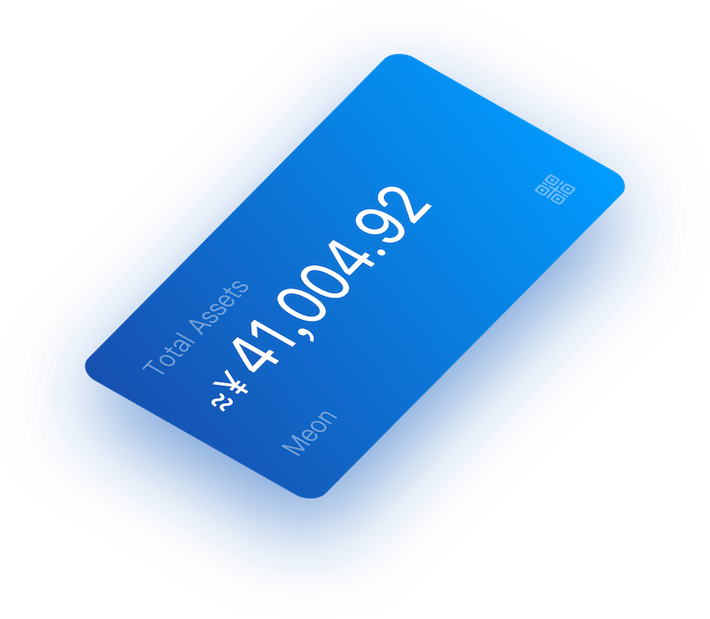
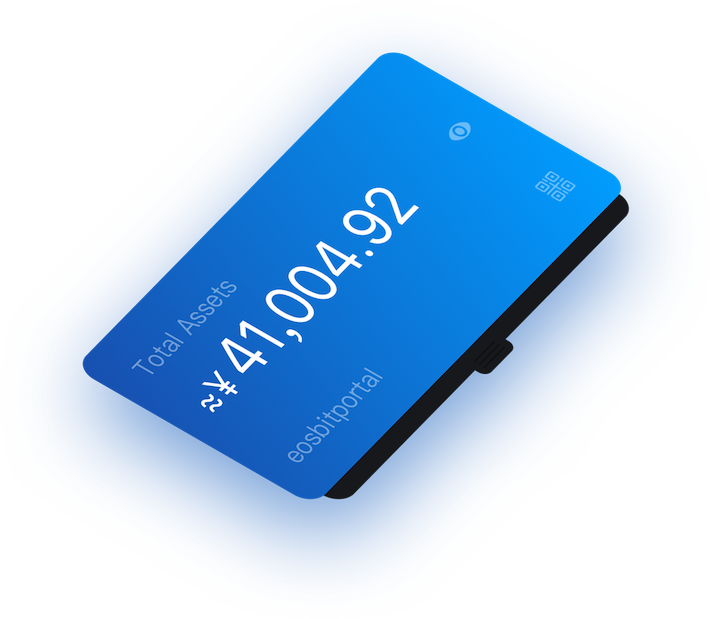
optimize account qrcode page & delete invalid png & change new welcome page asset card png

diff --git a/shared/screens/Assets/AssetQRCode/index.js b/shared/screens/Assets/AssetQRCode/index.js
@@ -70,15 +70,6 @@ export default class AssetQRCode extends Component {
     })
   }
 
-  componentDidMount() {
-    // 优化Android modal体验
-    this.timer = setTimeout(() => {
-      this.setState({ enableQRCode: true })
-      LayoutAnimation.spring()
-      clearTimeout(this.timer)
-    }, 3000)
-  }
-
   componentWillUnmount() {
     // 清除定时器
     this.timer && clearTimeout(this.timer)
@@ -103,7 +94,7 @@ export default class AssetQRCode extends Component {
                 autoCorrect={false}
                 underlineColorAndroid="transparent"
                 style={styles.input}
-                selectionColor={Colors.minorThemeColor}
+                selectionColor={Colors.textColor_89_185_226}
                 keyboardAppearance={Colors.keyboardTheme}
                 placeholder={'0'}
                 onChangeText={(e) => this.onChangeText(e)}
@@ -116,19 +107,13 @@ export default class AssetQRCode extends Component {
               <View style={[styles.semicircle, { marginRight: -5 }]} />
             </View>
             <View style={[styles.qrCode, styles.center]}>
-              {
-                enableQRCode ?
-
-                <View style={{ padding: 2, borderRadius: 2, maxWidth: qrCodeSize+4, backgroundColor: Colors.bgColor_FFFFFF }}>
-                  <QRCode
-                    value={eosQrString(this.props.accountName, this.state.value)}
-                    size={qrCodeSize}
-                    color='black'
-                  />
-                </View>
-                :
-                <ActivityIndicator />
-              }
+              <View style={{ padding: 2, borderRadius: 2, maxWidth: qrCodeSize+4, backgroundColor: Colors.bgColor_FFFFFF }}>
+                <QRCode
+                  value={eosQrString(this.props.accountName, this.state.value)}
+                  size={qrCodeSize}
+                  color='black'
+                />
+              </View>
             </View>
           </View>
           <View style={[styles.btnContainer, styles.between]}>

diff --git a/shared/resources/images/index.js b/shared/resources/images/index.js
@@ -13,22 +13,6 @@ const Images = {
   discovery_press: require('./Discovery_Press.png'),
   seperator:       require('./seperator.png'),
   logo:            require('./logo.png'),
-  loading1:        require('./loading/1.png'),
-  loading2:        require('./loading/2.png'),
-  loading3:        require('./loading/3.png'),
-  loading4:        require('./loading/4.png'),
-  loading5:        require('./loading/5.png'),
-  loading6:        require('./loading/6.png'),
-  loading7:        require('./loading/7.png'),
-  loading8:        require('./loading/8.png'),
-  loading9:        require('./loading/9.png'),
-  loading10:       require('./loading/10.png'),
-  loading11:       require('./loading/11.png'),
-  loading12:       require('./loading/12.png'),
-  loading13:       require('./loading/13.png'),
-  loading14:       require('./loading/14.png'),
-  loading15:       require('./loading/15.png'),
-  loading16:       require('./loading/16.png'),
   guide_bg:        require('./guide_bg.png'),
   guide_asset:  Platform.OS === 'ios' ? require('./guide_asset.png') : require('./guide_asset_android.png'),
   guide_asset_card:      require('./guide_asset_card.png'),

diff --git a/shared/screens/Assets/index.js b/shared/screens/Assets/index.js
@@ -1,6 +1,6 @@
 
 import React, { Component } from 'react'
-import { Text, View, ScrollView, Image, TouchableHighlight, ActivityIndicator, InteractionManager, NativeModules } from 'react-native'
+import { Text, View, ScrollView, Image, LayoutAnimation, TouchableHighlight, ActivityIndicator, InteractionManager } from 'react-native'
 import BaseScreen from 'components/BaseScreen'
 import TotalAssetsCard from 'components/TotalAssetsCard'
 import Ionicons from 'react-native-vector-icons/Ionicons'
@@ -178,6 +178,10 @@ export default class Assets extends BaseScreen {
     }
   }
 
+  componentWillUpdate() {
+    LayoutAnimation.linear()
+  }
+
   render() {
     const { wallet, balance, locale, eosAccount, eosPrice } = this.props
     const loading = wallet.get('loading')
@@ -186,7 +190,7 @@ export default class Assets extends BaseScreen {
     const classicWalletList = wallet.get('classicWalletList')
     const walletCount = hdWalletList.size + classicWalletList.size
     const balanceList = balance.get('data').get('eosAccountBalance')
-
+    
     return (
       <IntlProvider messages={messages[locale]}>
         <View style={styles.container}>

diff --git a/shared/screens/Assets/AssetQRCode/styles.js b/shared/screens/Assets/AssetQRCode/styles.js
@@ -1,5 +1,5 @@
 import { StyleSheet, Platform } from 'react-native'
-import { FontScale, SCREEN_WIDTH, SCREEN_HEIGHT, NAV_BAR_HEIGHT, TAB_BAR_HEIGHT, isIphoneX } from 'utils/dimens'
+import { FontScale, SCREEN_WIDTH, SCREEN_HEIGHT, NAV_BAR_HEIGHT, TAB_BAR_HEIGHT, isIphoneX, ifIphoneX } from 'utils/dimens'
 import Colors from 'resources/colors'
 
 let screen_width = isIphoneX ? SCREEN_WIDTH-40 : SCREEN_WIDTH
@@ -9,7 +9,11 @@ const styles = StyleSheet.create({
     flex: 1,
   },
   close: {
-    marginTop: NAV_BAR_HEIGHT/2,
+    ...ifIphoneX({
+      marginTop: NAV_BAR_HEIGHT/4
+    }, {
+      marginTop: 0
+    }),
     width: 64,
     height: 64,
     borderRadius: 32,
@@ -38,7 +42,7 @@ const styles = StyleSheet.create({
   },
   inputContainer: {
     width: screen_width-40-30,
-    height: 30,
+    height: 40,
     marginHorizontal: 15,
     marginVertical: 20,
     borderBottomColor: Colors.textColor_181_181_181,

diff --git a/shared/screens/Welcome/styles.js b/shared/screens/Welcome/styles.js
@@ -4,7 +4,7 @@ import Colors from 'resources/colors'
 
 const scale = Platform.OS == 'ios' ? 2.7 : 2.4
 const cardScale = Platform.OS == 'ios' ? 1 : 0.9
-const titleScale = Platform.OS == 'ios' ? 0.75 : 0.75 
+const titleScale = Platform.OS == 'ios' ? 0.7 : 0.7
 
 const styles = StyleSheet.create({
   imageBackground: {

diff --git a/shared/sagas/eosAccount.ts b/shared/sagas/eosAccount.ts
@@ -114,6 +114,7 @@ function* importEOSAccountRequested(action: Action<ImportEOSAccountParams>) {
 	  }
     })
   } catch (e) {
+    alert(`${e.message} ------ ${JSON.stringify(action.payload)}`)
     yield put(actions.importEOSAccountFailed(getErrorMessage(e)))
   }
 }
